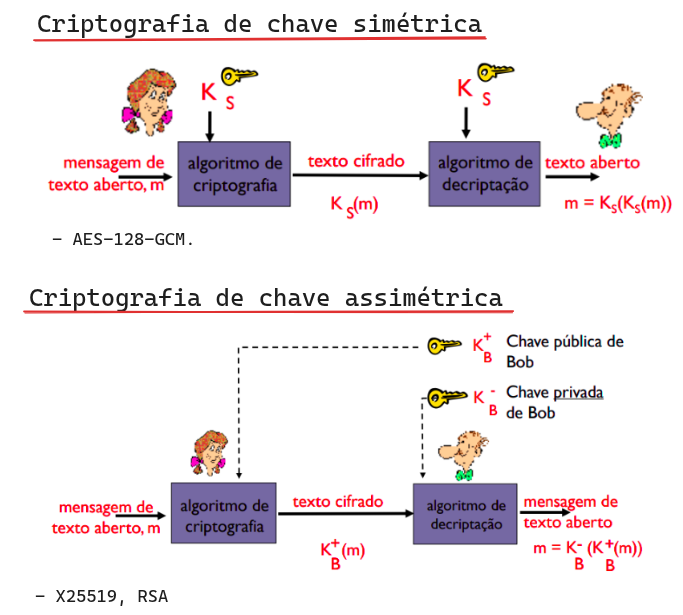
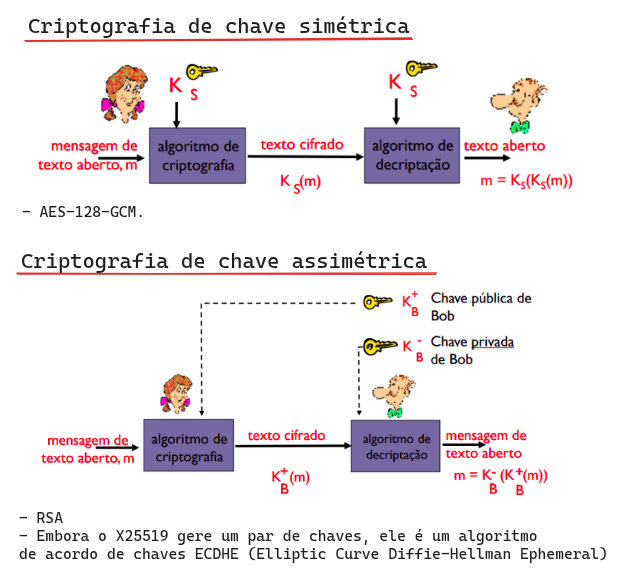
aaaa

Changed region(s): [[0.0306, 0.4466, 0.9806, 0.9825], [0.0306, 0.0, 0.9806, 0.4168], [0.3371, 0.5657, 0.3677, 0.5954]]

diff --git a/client.py b/client.py
@@ -240,16 +240,17 @@ async def receive_messages(
     """Recebe frames do servidor e atualiza peers e histórico de mensagens."""
 
     while True:
+        # A espera de um frame
         try:
             payload = await recv_frame(reader)
         except asyncio.IncompleteReadError:
-            # O servidor encerrou a conexão ou não terminou de enviar o frame. Registra o encerramento
             async with client_lock:
                 history.setdefault("*", []).append(
                     {"sender": "*", "message": "Conexão encerrada pelo servidor."}
                 )
             return
 
+        # Se for um anúncio administrativo, aplica a validação e atualização de peers.
         if payload.startswith(ADMIN_MAGIC):
             try:
                 await apply_admin_frame(payload, id_a, sk_a)
@@ -261,10 +262,12 @@ async def receive_messages(
                             "message": f"Anúncio administrativo inválido: {e}",
                         }
                     )
+                    
         # Se não for anúncio de peer e for menor que 68 bytes, é um frame inválido.
         elif len(payload) < MIN_E2E_FRAME_SIZE:
             async with client_lock:
                 history.setdefault("*", []).append( {"sender": "*", "message": f"Frame inesperado recebido ({len(payload)} bytes)."})
+        
         # Só frames E2E (68 bytes ou mais) chegam à validação criptográfica.
         else:
             try:
@@ -276,8 +279,6 @@ async def receive_messages(
                 # Mensagem E2E inválida 
                 async with client_lock:
                     history.setdefault("*", []).append( {"sender": "*", "message": f"Mensagem recebida inválida: {e}"})
-
-
 
 if __name__ == "__main__":
     asyncio.run(main())

diff --git a/protocol/crypto.py b/protocol/crypto.py
@@ -55,7 +55,7 @@ def derive_e2e_keys(
         key_send = key_b
         key_recv = key_a
 
-    iv_base_send = secrets.token_bytes(4) # 
+    iv_base_send = secrets.token_bytes(4) 
 
     # Z_ab sai de escopo aqui e é coletado pelo garbage collector (descartado)
     return key_send, key_recv, iv_base_send
@@ -77,6 +77,7 @@ def encrypt_e2e_message(
     if len(plaintext) > MAX_PLAINTEXT_SIZE:
         raise ValueError(f"Plaintext excede o limite máximo de {MAX_PLAINTEXT_SIZE} bytes")
 
+    # Nonce n precisa ser secreto, mas deve ser único para cada mensagem cifrada com a mesma chave.
     seq_bytes = seq_send.to_bytes(SEQUENCE_SIZE, 'big')
     nonce = iv_base_send + seq_bytes
     aad = sender_id + recipient_id + seq_bytes
